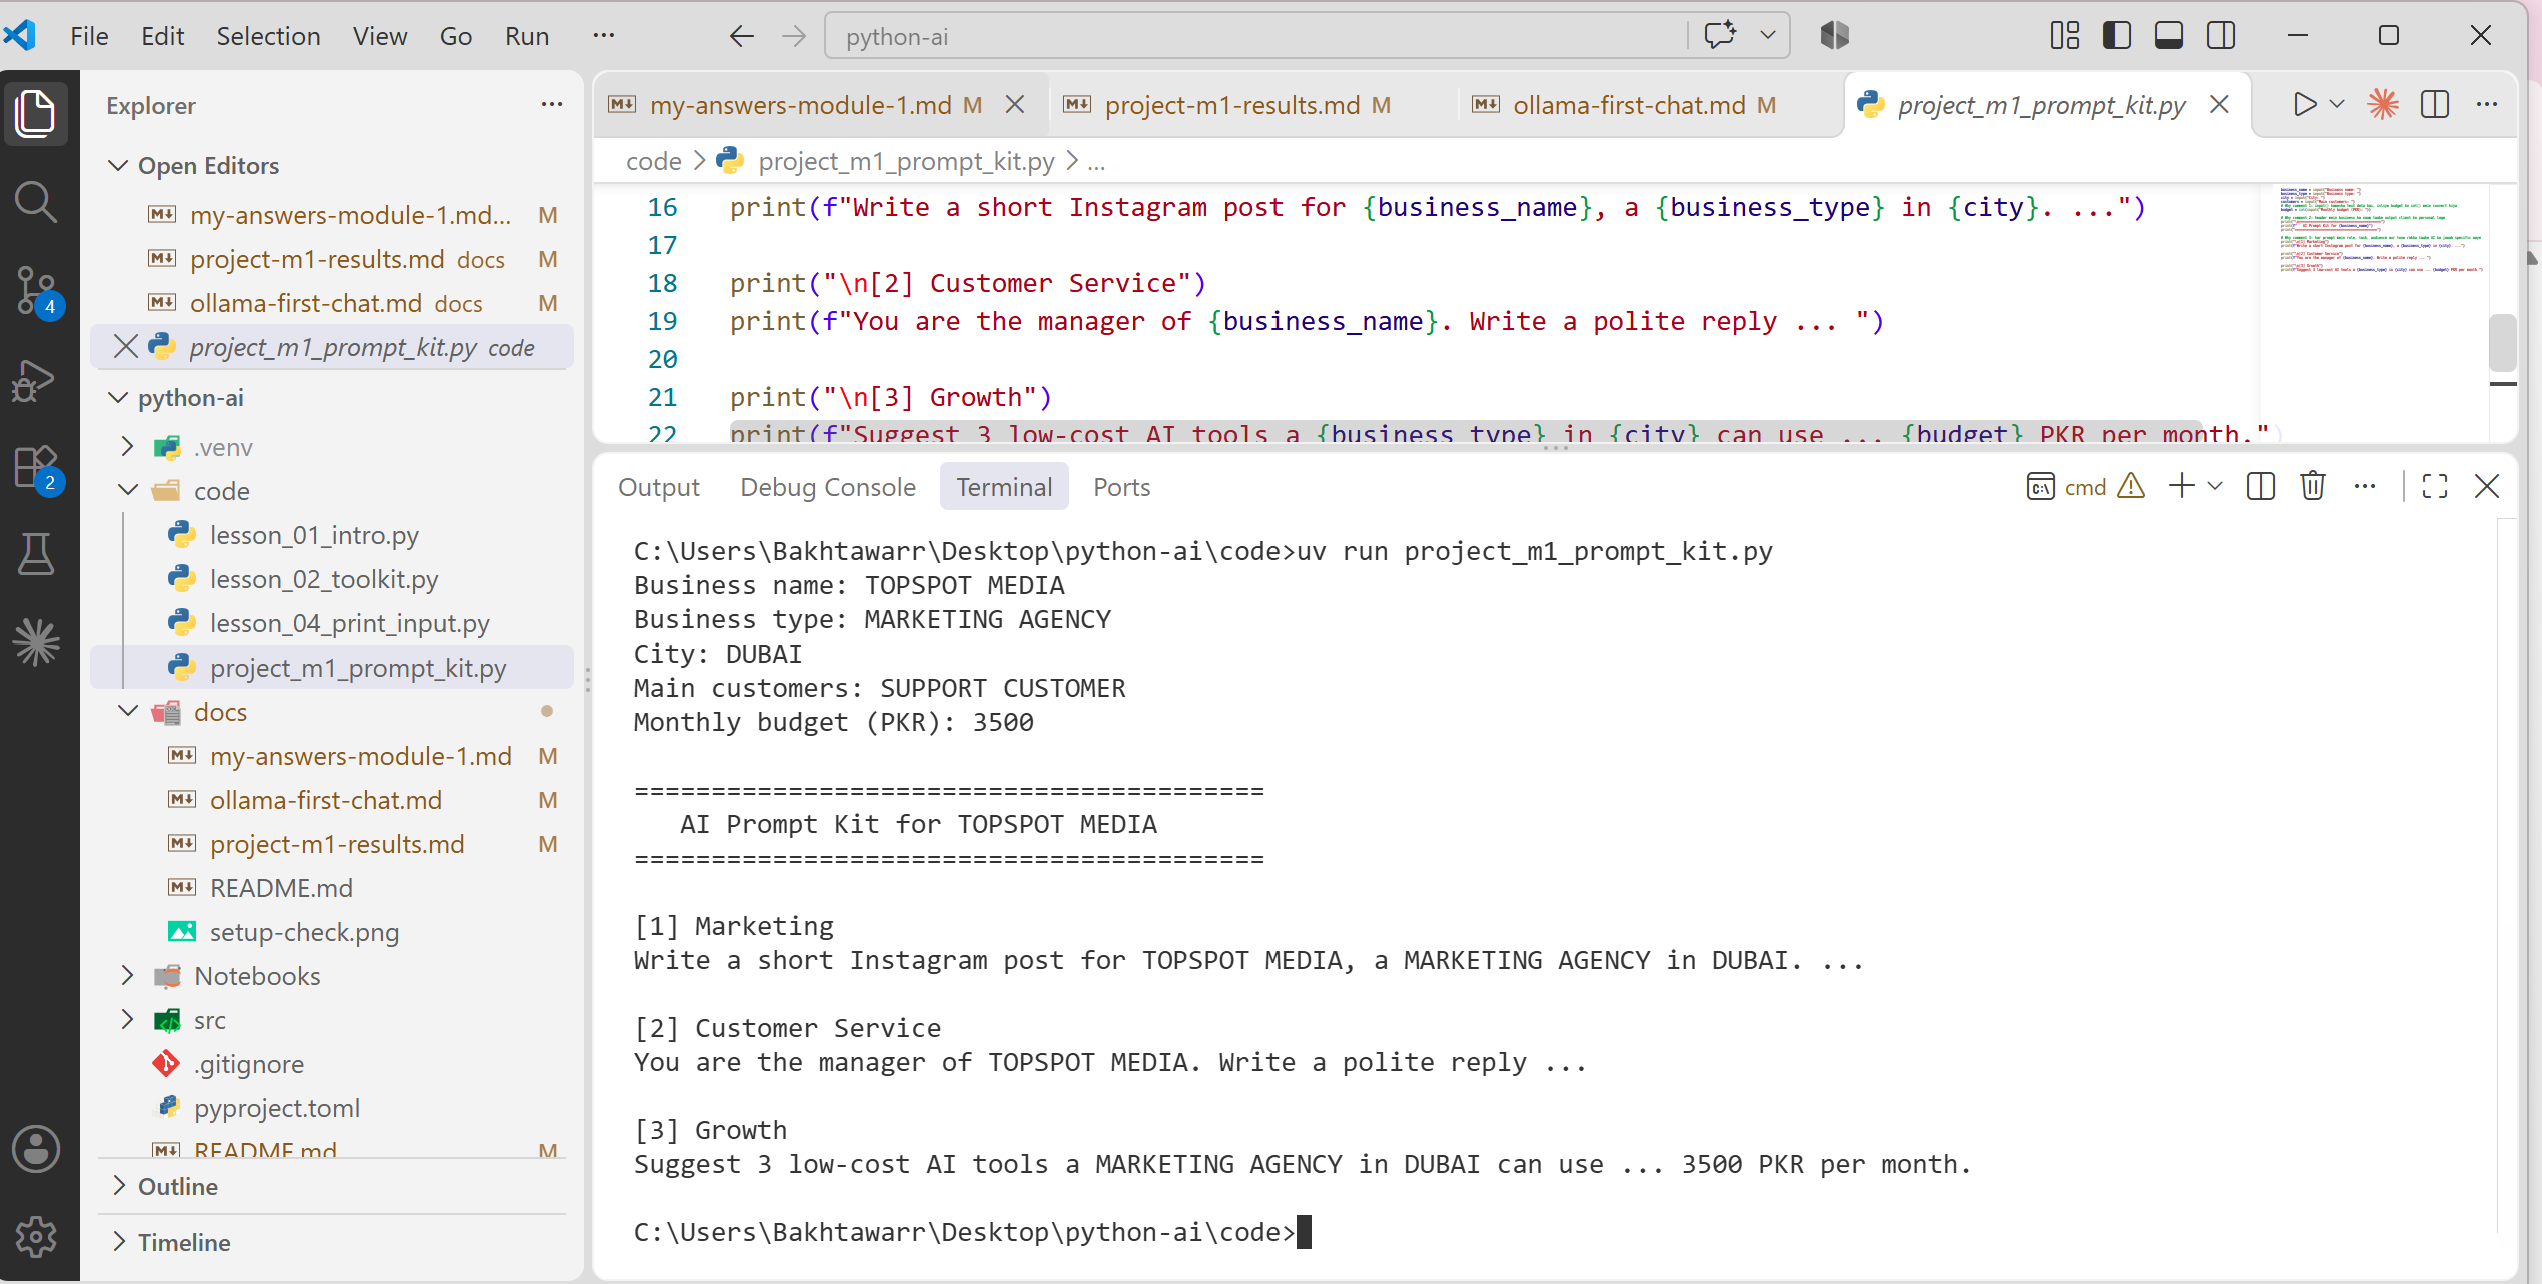
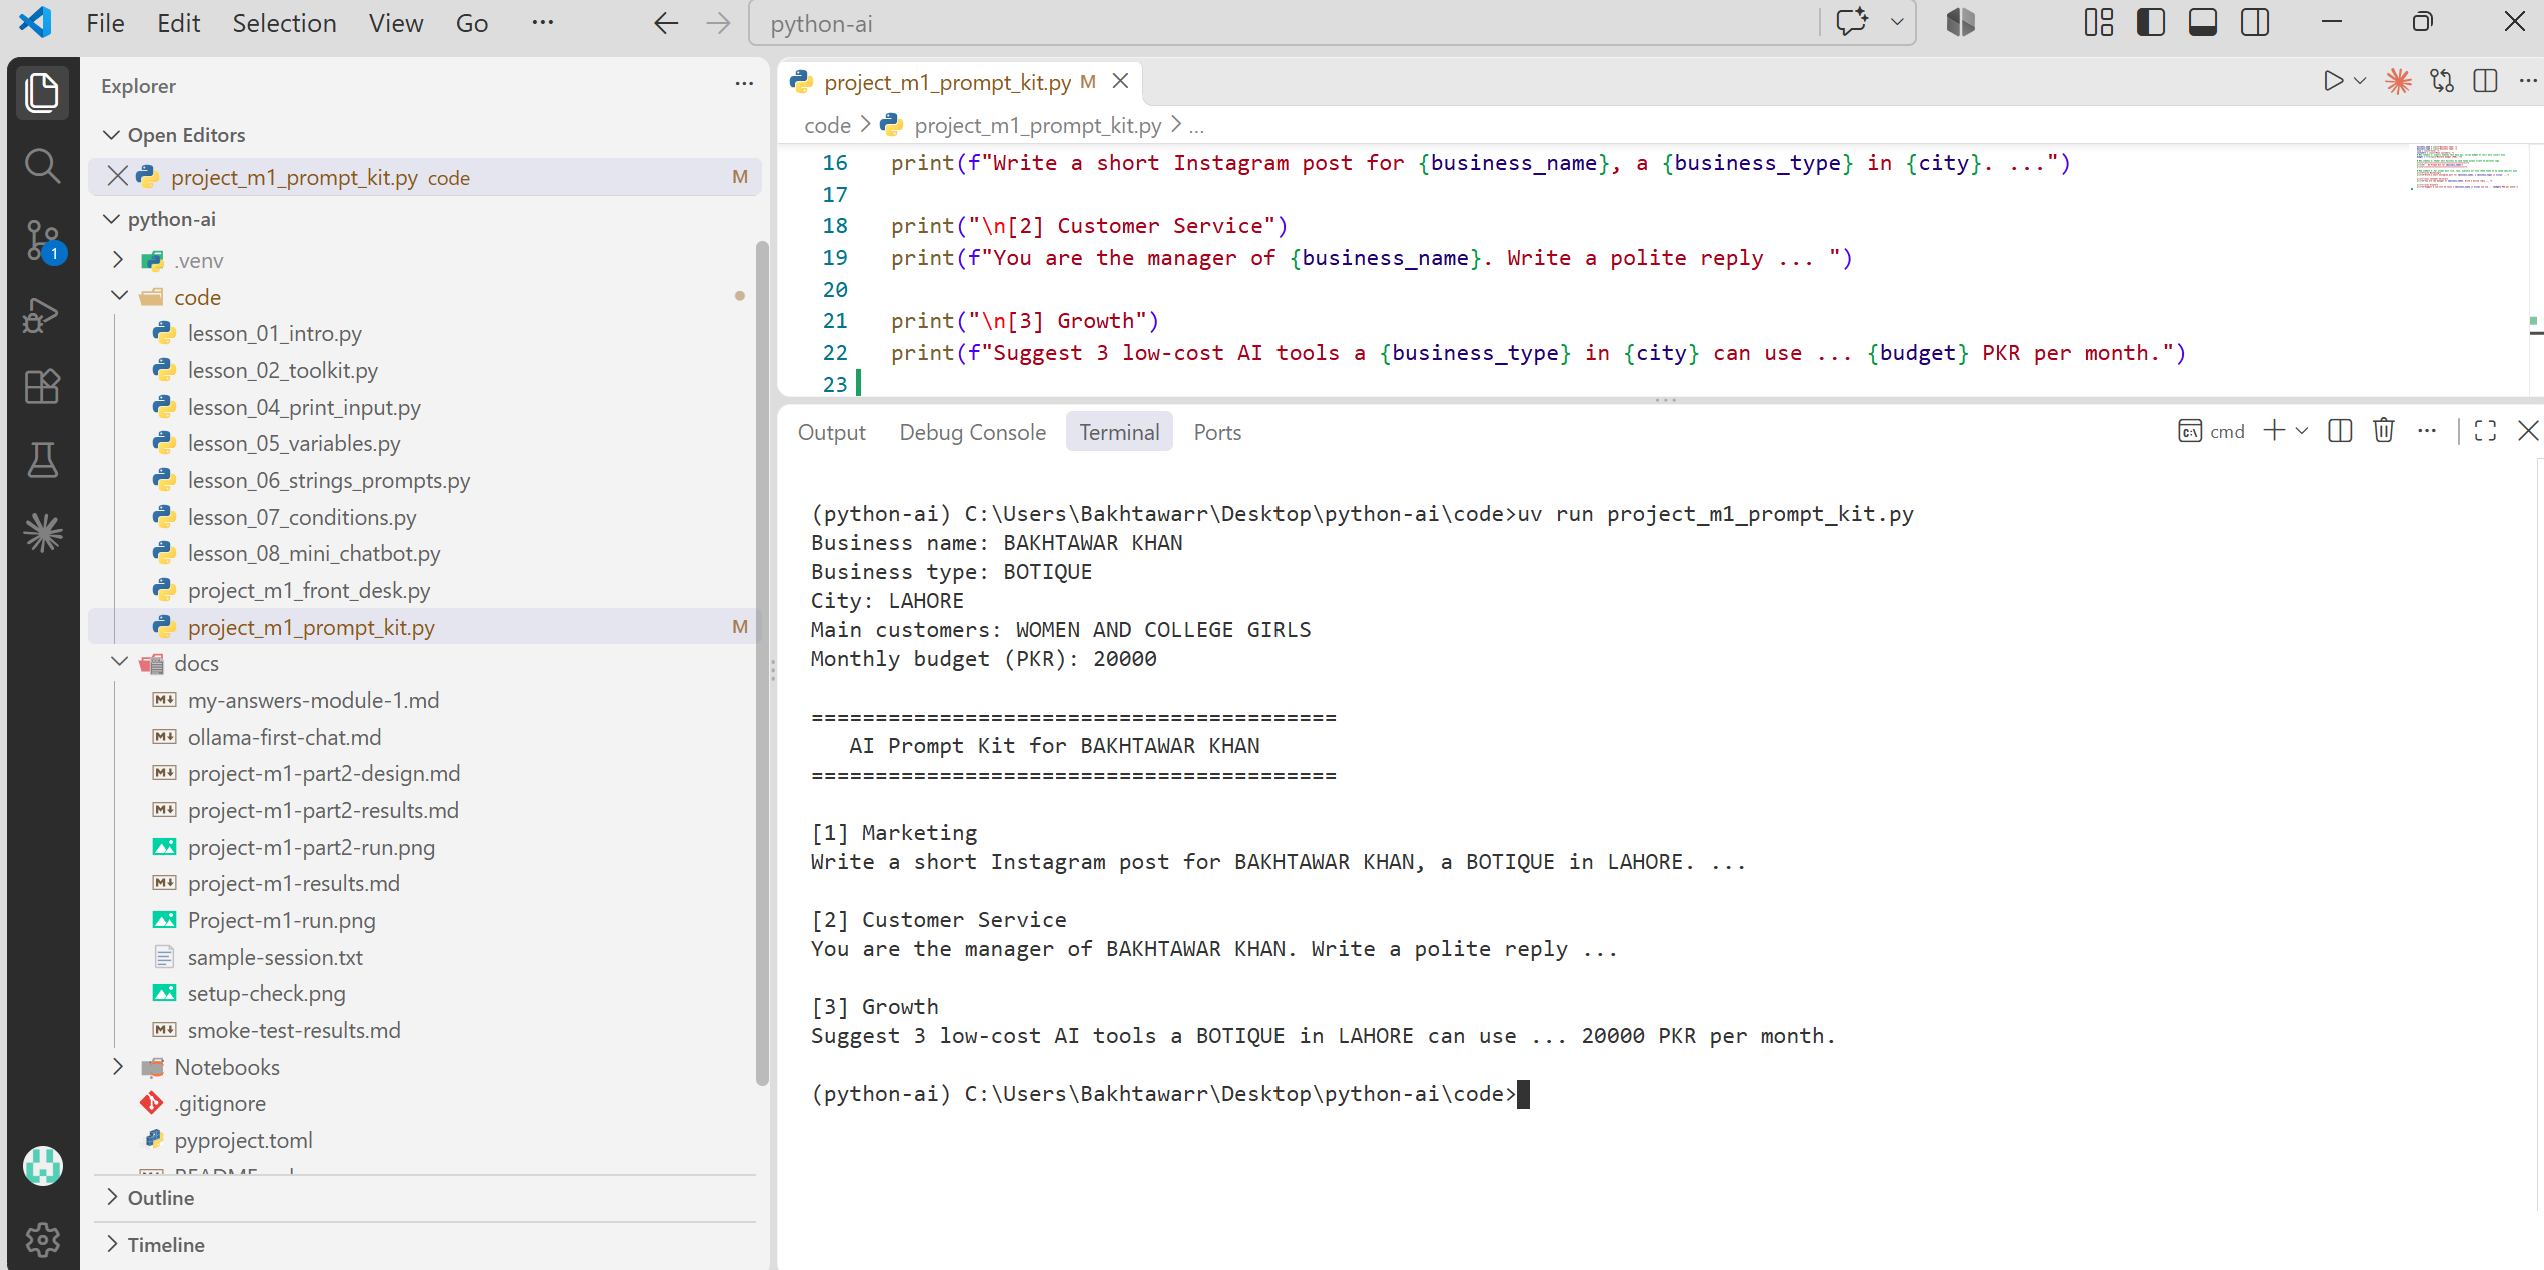
anything here

diff --git a/Docs/project-m1-results.md b/Docs/project-m1-results.md
@@ -1,22 +1,22 @@
 # Module 1 Project: AI Test Results
 
-**Business:** BAKHTAWAR Couture, boutique, Lahore  
-**Model:** llama3-8b  
+ **Business: Bakhtawar Couture, boutique, Lahore**
+    **Model: llama3.2:1b**
 
----
+ **Prompt 1: Marketing**
 
-## Prompt 1: Marketing
-**Prompt:** Write a short Instagram post for BAKHTAWAR Couture, a boutique in Lahore. Target women and college girls. Friendly tone, call to action.  
+ **Prompt:** Write a short Instagram post for Bakhtawar Couture, a boutique in Lahore. Target women and college girls. Friendly tone, 1 call to action.
+**AI answer:** A friendly Instagram post that greets “beauties”, says Bakhtawar Couture is the go-to place for the latest fashion in Lahore, mentions outfits for school and chic dresses, asks people to DM to book an appointment, and adds three hashtags (#BakhtawarCouture #LahoreFashion #WearYourStyle).
+**Useful?** Mostly yes. The tone is friendly and there is one call to action. But “outfits for school” does not fit college girls, and “book your appointment” was made up because a boutique does not usually take appointments.
 
-**AI answer:**  
-“Beauties! Say bakhtawar Couture is the go-to place for the latest fashion in Lahore, modern outfits that make you feel confident. Dress up for Eid look or apartment, and adds three hashtags (#LahoreFashion #BAKHTAWARCouture #Style).”  
+ **Prompt 2: Customer Service**
 
- ## Prompt 2: Customer Service
-**Prompt:** You are the manager of BAKHTAWAR Couture. Write a polite reply to a customer whose order arrived late. Apologise and offer a small discount.
-**AI answer:** A polite formal letter that apologises for the delay, offers a discount on the next purchase, and ends with a thank you and a request to contact us with questions.
-**Useful?** Mostly yes. The tone is polite and professional. But it says "10% discount" while the code is "DELAY15" (15%), and it invented a checkout code that the boutique does not have. It also leaves [Customer’s Name] and [Your Name] blank.
+ **Prompt**: You are the manager of Bakhtawar Couture. Write a polite reply to a customer whose order arrived late. Apologise and offer a small discount.
+**AI answer**: A polite formal letter that apologises for the delay, offers a discount on the next purchase, and ends with a thank you and a request to contact us with questions.
+**Useful?** Mostly yes. The tone is polite and professional. But it says “10% discount” while the code is “DELAY15” (15%), and it invented a checkout code that the boutique does not have. It also leaves [Customer’s Name] and [Your Name] blank.
 
-## Prompt 3: Growth
-**Prompt:** Suggest 3 low-cost AI tools a boutique in Lahore can use to attract women and college girls with a budget of 2000 PKR per month.
-**AI answer:** Three tools: Google Analytics (free), Lead Grabber (500 PKR per month), and Facebook Ads Management (1,500 PKR per month).
-**Useful?** Partly. The budget is respected, but "Lead Grabber" may be a made-up tool and I could not verify its price. Google Analytics is for websites, and a small boutique may only use Instagram. So the ideas need checking before use.
+ **Prompt 3: Growth**
+
+**Prompt**: Suggest 3 low-cost AI tools a boutique in Lahore can use to attract women and college girls with a budget of 20000 PKR per month.
+**AI answer:** Three tools: Google Analytics (free), Lead Grabber (500 PKR per month), and Facebook Ads Management (5,000 PKR per month), all within the budget.
+****Useful?** Partly. The budget is respected, but “Lead Grabber” may be a made-up tool and I could not verify its price. Google Analytics is for websites, and a small boutique may only use Instagram. So the ideas need checking before use.
